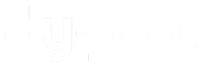
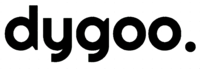
Update readme

diff --git a/README.md b/README.md
@@ -1,2 +1,13 @@
-# Dygoo Server
-Social Media Chatting Application
+<br />
+<p>
+  <a href="javascript:void(0)">
+    <img src="./dygoo.png" width="300">
+  </a>
+
+  <h3>Dygoo Server</h3>
+
+  <p>
+    Social Media Chatting Application
+  </p>
+</p>
+<br />
